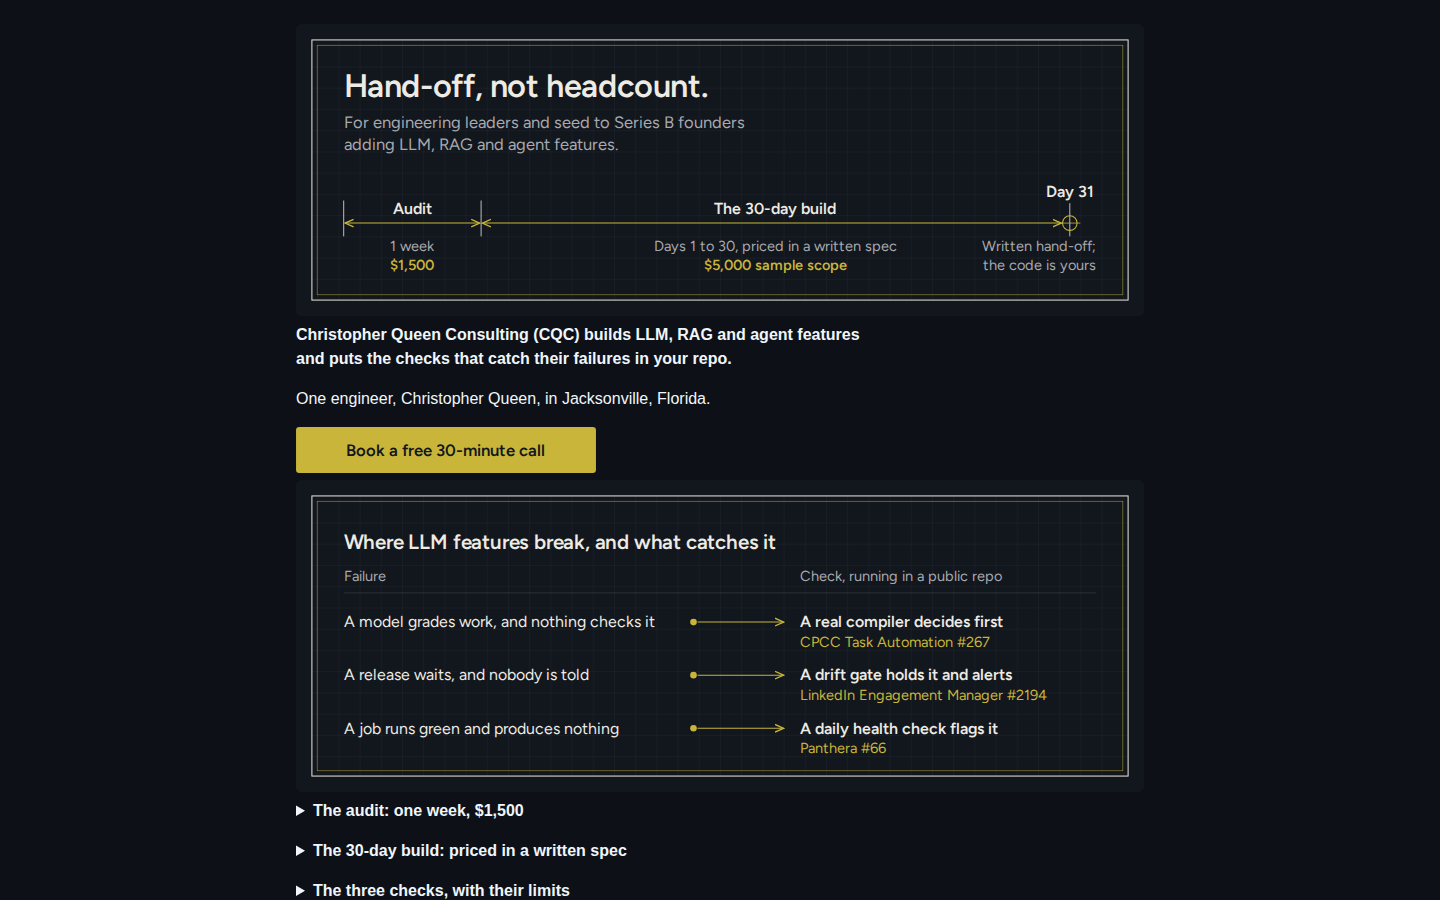
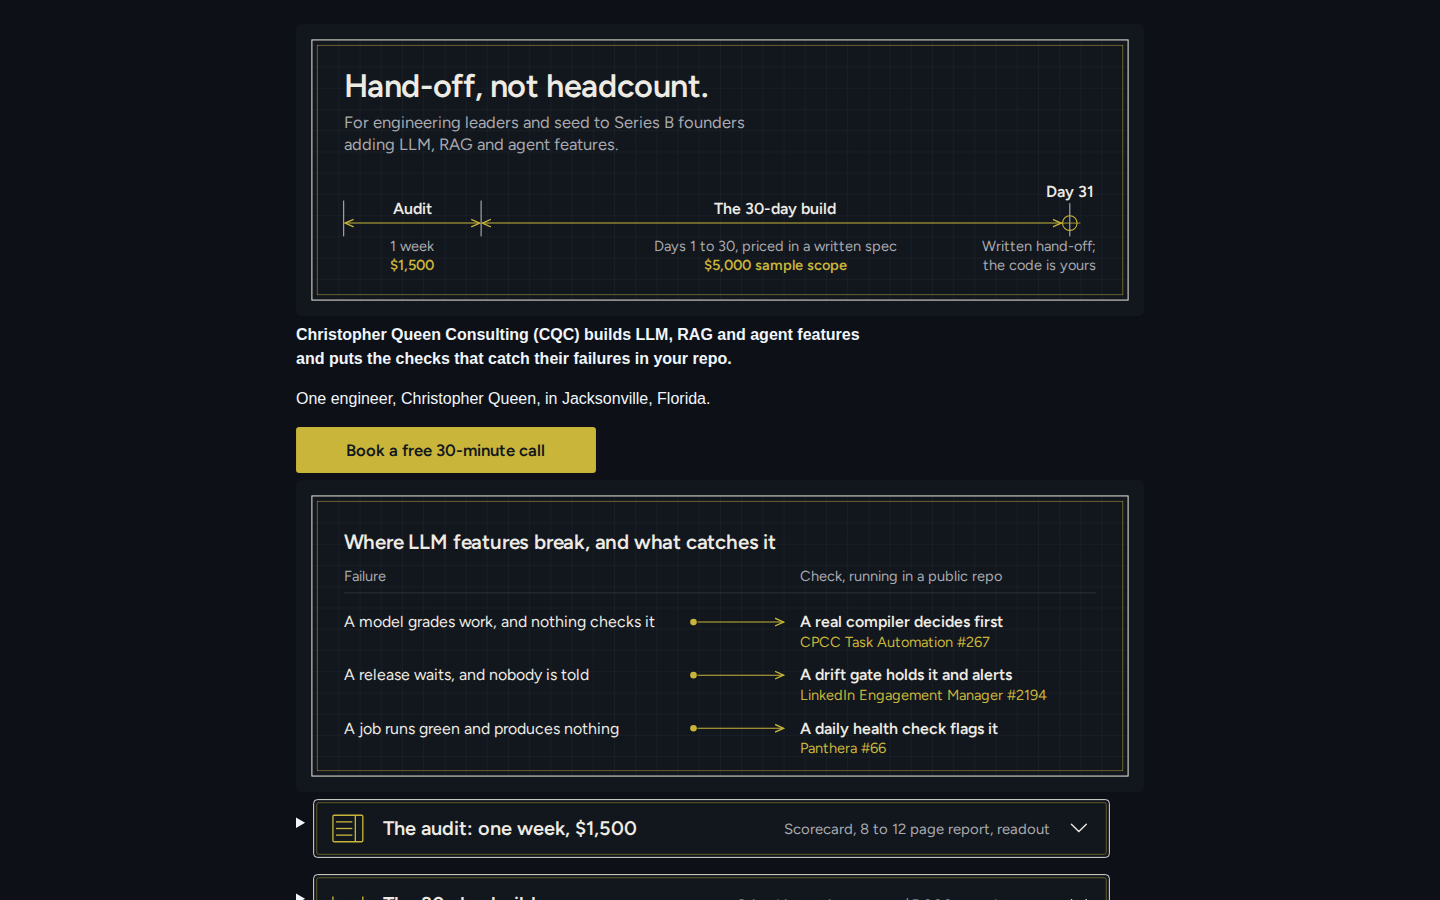
preview: captures of the branch render, render-61595ed (review only, never merge)

Changed region(s): [[0.1875, 0.8711, 0.7812, 1.0], [0.1875, 0.9956, 0.2188, 1.0]]

diff --git a/review-shots/index.html b/review-shots/index.html
@@ -1237,32 +1237,37 @@ body { margin: 0; background: #ffffff; }
 @media (max-width: 767px) { .markdown-body { padding: 16px; } }
 </style></head><body><article class="markdown-body"><a href="https://christopherqueenconsulting.com/?utm_source=github&amp;utm_medium=org_profile" rel="nofollow">
 <themed-picture data-catalyst-inline="true"><picture>
-  <source media="(max-width: 760px) and (prefers-color-scheme: dark)" srcset="https://raw.githubusercontent.com/christopherqueenconsulting/.github/feat/org-profile-v2-compact/profile/assets/hero-phone-dark.svg">
-  <source media="(max-width: 760px)" srcset="https://raw.githubusercontent.com/christopherqueenconsulting/.github/feat/org-profile-v2-compact/profile/assets/hero-phone-light.svg">
-  <source media="(prefers-reduced-motion: reduce) and (prefers-color-scheme: dark)" srcset="https://raw.githubusercontent.com/christopherqueenconsulting/.github/feat/org-profile-v2-compact/profile/assets/hero-dark-static.svg">
-  <source media="(prefers-reduced-motion: reduce)" srcset="https://raw.githubusercontent.com/christopherqueenconsulting/.github/feat/org-profile-v2-compact/profile/assets/hero-light-static.svg">
-  <source media="(prefers-color-scheme: dark)" srcset="https://raw.githubusercontent.com/christopherqueenconsulting/.github/feat/org-profile-v2-compact/profile/assets/hero-dark.svg">
-  <img alt="Christopher Queen Consulting home page. Hand-off, not headcount. For engineering leaders and seed to Series B founders adding LLM, RAG and agent features. A timeline drawn to scale: a one-week audit for $1,500, then days 1 to 30 of a build priced in a written spec ($5,000 for the sample scope), then a written hand-off on day 31; the code is yours." src="https://raw.githubusercontent.com/christopherqueenconsulting/.github/feat/org-profile-v2-compact/profile/assets/hero-light.svg" width="100%">
+  <source media="(max-width: 760px) and (prefers-color-scheme: dark)" srcset="https://raw.githubusercontent.com/christopherqueenconsulting/.github/feat/org-profile-tabs/profile/assets/hero-phone-dark.svg">
+  <source media="(max-width: 760px)" srcset="https://raw.githubusercontent.com/christopherqueenconsulting/.github/feat/org-profile-tabs/profile/assets/hero-phone-light.svg">
+  <source media="(prefers-reduced-motion: reduce) and (prefers-color-scheme: dark)" srcset="https://raw.githubusercontent.com/christopherqueenconsulting/.github/feat/org-profile-tabs/profile/assets/hero-dark-static.svg">
+  <source media="(prefers-reduced-motion: reduce)" srcset="https://raw.githubusercontent.com/christopherqueenconsulting/.github/feat/org-profile-tabs/profile/assets/hero-light-static.svg">
+  <source media="(prefers-color-scheme: dark)" srcset="https://raw.githubusercontent.com/christopherqueenconsulting/.github/feat/org-profile-tabs/profile/assets/hero-dark.svg">
+  <img alt="Christopher Queen Consulting home page. Hand-off, not headcount. For engineering leaders and seed to Series B founders adding LLM, RAG and agent features. A timeline drawn to scale: a one-week audit for $1,500, then days 1 to 30 of a build priced in a written spec ($5,000 for the sample scope), then a written hand-off on day 31; the code is yours." src="https://raw.githubusercontent.com/christopherqueenconsulting/.github/feat/org-profile-tabs/profile/assets/hero-light.svg" width="100%">
 </picture></themed-picture>
 </a>
 <p dir="auto"><strong>Christopher Queen Consulting (CQC) builds LLM, RAG and agent features<br>and puts the checks that catch their failures in your repo.</strong></p>
 <p dir="auto">One engineer, Christopher Queen, in Jacksonville, Florida.</p>
 <a href="https://christopherqueenconsulting.com/schedule/?utm_source=github&amp;utm_medium=org_profile" rel="nofollow">
 <themed-picture data-catalyst-inline="true"><picture>
-  <source media="(prefers-color-scheme: dark)" srcset="https://raw.githubusercontent.com/christopherqueenconsulting/.github/feat/org-profile-v2-compact/profile/assets/cta-dark.svg">
-  <img alt="Book a free 30-minute call" src="https://raw.githubusercontent.com/christopherqueenconsulting/.github/feat/org-profile-v2-compact/profile/assets/cta-light.svg" width="300">
+  <source media="(prefers-color-scheme: dark)" srcset="https://raw.githubusercontent.com/christopherqueenconsulting/.github/feat/org-profile-tabs/profile/assets/cta-dark.svg">
+  <img alt="Book a free 30-minute call" src="https://raw.githubusercontent.com/christopherqueenconsulting/.github/feat/org-profile-tabs/profile/assets/cta-light.svg" width="300">
 </picture></themed-picture>
 </a>
 <a href="https://github.com/gitchrisqueen/gitchrisqueen/blob/main/docs/PROOF.md">
 <themed-picture data-catalyst-inline="true"><picture>
-  <source media="(max-width: 760px) and (prefers-color-scheme: dark)" srcset="https://raw.githubusercontent.com/christopherqueenconsulting/.github/feat/org-profile-v2-compact/profile/assets/sheet2-phone-dark.svg">
-  <source media="(max-width: 760px)" srcset="https://raw.githubusercontent.com/christopherqueenconsulting/.github/feat/org-profile-v2-compact/profile/assets/sheet2-phone-light.svg">
-  <source media="(prefers-color-scheme: dark)" srcset="https://raw.githubusercontent.com/christopherqueenconsulting/.github/feat/org-profile-v2-compact/profile/assets/sheet2-dark.svg">
-  <img alt="Where LLM features break, and what catches it. A model grades work and nothing checks it: a real compiler decides first (CPCC Task Automation #267). A release waits and nobody is told: a drift gate holds it and alerts (LinkedIn Engagement Manager #2194). A job runs green and produces nothing: a daily health check flags it (Panthera #66). Opens the project write-ups." src="https://raw.githubusercontent.com/christopherqueenconsulting/.github/feat/org-profile-v2-compact/profile/assets/sheet2-light.svg" width="100%">
+  <source media="(max-width: 760px) and (prefers-color-scheme: dark)" srcset="https://raw.githubusercontent.com/christopherqueenconsulting/.github/feat/org-profile-tabs/profile/assets/sheet2-phone-dark.svg">
+  <source media="(max-width: 760px)" srcset="https://raw.githubusercontent.com/christopherqueenconsulting/.github/feat/org-profile-tabs/profile/assets/sheet2-phone-light.svg">
+  <source media="(prefers-color-scheme: dark)" srcset="https://raw.githubusercontent.com/christopherqueenconsulting/.github/feat/org-profile-tabs/profile/assets/sheet2-dark.svg">
+  <img alt="Where LLM features break, and what catches it. A model grades work and nothing checks it: a real compiler decides first (CPCC Task Automation #267). A release waits and nobody is told: a drift gate holds it and alerts (LinkedIn Engagement Manager #2194). A job runs green and produces nothing: a daily health check flags it (Panthera #66). Opens the project write-ups." src="https://raw.githubusercontent.com/christopherqueenconsulting/.github/feat/org-profile-tabs/profile/assets/sheet2-light.svg" width="100%">
 </picture></themed-picture>
 </a>
 <details>
-<summary><b>The audit: one week, $1,500</b></summary>
+<summary><themed-picture data-catalyst-inline="true"><picture>
+  <source media="(max-width: 760px) and (prefers-color-scheme: dark)" srcset="https://raw.githubusercontent.com/christopherqueenconsulting/.github/feat/org-profile-tabs/profile/assets/tab-audit-phone-dark.svg">
+  <source media="(max-width: 760px)" srcset="https://raw.githubusercontent.com/christopherqueenconsulting/.github/feat/org-profile-tabs/profile/assets/tab-audit-phone-light.svg">
+  <source media="(prefers-color-scheme: dark)" srcset="https://raw.githubusercontent.com/christopherqueenconsulting/.github/feat/org-profile-tabs/profile/assets/tab-audit-dark.svg">
+  <img alt="The audit: one week, $1,500. Scorecard, 8 to 12 page report, readout. Select to open." src="https://raw.githubusercontent.com/christopherqueenconsulting/.github/feat/org-profile-tabs/profile/assets/tab-audit-light.svg" width="94%" align="middle">
+</picture></themed-picture></summary>
 <ul dir="auto">
 <li><strong>What it is:</strong> your LLM spend and failures, traced and graded.</li>
 <li><strong>You get:</strong> a scorecard that grades five areas A to F, an 8 to 12 page report with a costed fix list, and a readout call.</li>
@@ -1273,7 +1278,12 @@ body { margin: 0; background: #ffffff; }
 <p dir="auto"><a href="https://christopherqueenconsulting.com/ai-ops-audit/?utm_source=github&amp;utm_medium=org_profile" rel="nofollow">Read the audit page</a>.</p>
 </details>
 <details>
-<summary><b>The 30-day build: priced in a written spec</b></summary>
+<summary><themed-picture data-catalyst-inline="true"><picture>
+  <source media="(max-width: 760px) and (prefers-color-scheme: dark)" srcset="https://raw.githubusercontent.com/christopherqueenconsulting/.github/feat/org-profile-tabs/profile/assets/tab-build-phone-dark.svg">
+  <source media="(max-width: 760px)" srcset="https://raw.githubusercontent.com/christopherqueenconsulting/.github/feat/org-profile-tabs/profile/assets/tab-build-phone-light.svg">
+  <source media="(prefers-color-scheme: dark)" srcset="https://raw.githubusercontent.com/christopherqueenconsulting/.github/feat/org-profile-tabs/profile/assets/tab-build-dark.svg">
+  <img alt="The 30-day build. Priced in a written spec; $5,000 sample scope. Select to open." src="https://raw.githubusercontent.com/christopherqueenconsulting/.github/feat/org-profile-tabs/profile/assets/tab-build-light.svg" width="94%" align="middle">
+</picture></themed-picture></summary>
 <ul dir="auto">
 <li><strong>What it is:</strong> one working system, built in your repo over 30 days.</li>
 <li><strong>Price:</strong> set in a written spec before day 1. The sample scope, an agent eval harness, is $5,000.</li>
@@ -1285,14 +1295,24 @@ body { margin: 0; background: #ffffff; }
 <p dir="auto"><a href="https://build.christopherqueenconsulting.com/?utm_source=github&amp;utm_medium=org_profile" rel="nofollow">Read the build page</a>.</p>
 </details>
 <details>
-<summary><b>The three checks, with their limits</b></summary>
+<summary><themed-picture data-catalyst-inline="true"><picture>
+  <source media="(max-width: 760px) and (prefers-color-scheme: dark)" srcset="https://raw.githubusercontent.com/christopherqueenconsulting/.github/feat/org-profile-tabs/profile/assets/tab-checks-phone-dark.svg">
+  <source media="(max-width: 760px)" srcset="https://raw.githubusercontent.com/christopherqueenconsulting/.github/feat/org-profile-tabs/profile/assets/tab-checks-phone-light.svg">
+  <source media="(prefers-color-scheme: dark)" srcset="https://raw.githubusercontent.com/christopherqueenconsulting/.github/feat/org-profile-tabs/profile/assets/tab-checks-dark.svg">
+  <img alt="The three checks, with their limits. Compiler gate, drift gate, health check. Select to open." src="https://raw.githubusercontent.com/christopherqueenconsulting/.github/feat/org-profile-tabs/profile/assets/tab-checks-light.svg" width="94%" align="middle">
+</picture></themed-picture></summary>
 <p dir="auto"><strong>A model grades work, and nothing checks it.</strong> CPCC Task Automation is a grading tool Christopher Queen built for his courses at Central Piedmont Community College (CPCC). Since <a href="https://github.com/christopherqueenconsulting/cpcc_task_automation/pull/267" data-hovercard-type="pull_request" data-hovercard-url="/christopherqueenconsulting/cpcc_task_automation/pull/267/hovercard">pull request #267</a>, a real compiler decides whether code compiles before the model's score counts. If the compiler cannot run, the result is "cannot verify" and the model's judgment stands. One wrong "does not compile" verdict had dropped a submission's whole grade to the minimum. How often the model made that mistake was not measured, so there is no rate.</p>
 <p dir="auto"><strong>A release waits, and nobody is told.</strong> LinkedIn Engagement Manager (LEM) is a live web app. Since <a href="https://github.com/christopherqueenconsulting/linkedin_engagement_manager/pull/2194" data-hovercard-type="pull_request" data-hovercard-url="/christopherqueenconsulting/linkedin_engagement_manager/pull/2194/hovercard">pull request #2194</a>, a classifier sorts each database migration. Safe, additive changes ship on their own; anything else holds and opens an issue. An hourly check alerts when a release has waited more than 3 hours. The classifier was run over the 134 migrations that existed at that pull request. It would have shipped 102 and held 32, each with a named reason. It has 68 tests.</p>
 <p dir="auto"><strong>A job runs green and produces nothing.</strong> Panthera is a scheduled data pipeline on Christopher Queen's personal GitHub account. Since <a href="https://github.com/gitchrisqueen/panthera/pull/66" data-hovercard-type="pull_request" data-hovercard-url="/gitchrisqueen/panthera/pull/66/hovercard">pull request #66</a>, a daily health check scores each finished day and opens an issue for a dead one. It flags a dead day the next morning, about 26 hours later at the earliest. Its threshold was set on past data, not held out.</p>
 <p dir="auto">These are CQC's own running systems. Sources and fuller caveats: <a href="https://github.com/gitchrisqueen/gitchrisqueen/blob/main/docs/PROOF.md">the project write-ups</a>.</p>
 </details>
 <details>
-<summary><b>Code, live CI and upstream fixes</b></summary>
+<summary><themed-picture data-catalyst-inline="true"><picture>
+  <source media="(max-width: 760px) and (prefers-color-scheme: dark)" srcset="https://raw.githubusercontent.com/christopherqueenconsulting/.github/feat/org-profile-tabs/profile/assets/tab-code-phone-dark.svg">
+  <source media="(max-width: 760px)" srcset="https://raw.githubusercontent.com/christopherqueenconsulting/.github/feat/org-profile-tabs/profile/assets/tab-code-phone-light.svg">
+  <source media="(prefers-color-scheme: dark)" srcset="https://raw.githubusercontent.com/christopherqueenconsulting/.github/feat/org-profile-tabs/profile/assets/tab-code-dark.svg">
+  <img alt="Code, live CI and upstream fixes. 4 repos, 6 live checks, 6 merged fixes. Select to open." src="https://raw.githubusercontent.com/christopherqueenconsulting/.github/feat/org-profile-tabs/profile/assets/tab-code-light.svg" width="94%" align="middle">
+</picture></themed-picture></summary>
 <ul dir="auto">
 <li><strong><a href="https://github.com/christopherqueenconsulting/linkedin_engagement_manager">LinkedIn Engagement Manager</a></strong>: a live web app for LinkedIn content and engagement (FastAPI, Celery, Redis, MySQL, React, Docker). Its write-up lists its limits: deployed and CI-gated, no revenue.</li>
 <li><strong><a href="https://github.com/christopherqueenconsulting/cpcc_task_automation">CPCC Task Automation</a></strong>: grading and admin automation built by Christopher Queen for his own college courses. Grades go back as drafts where the platform allows one, so a person publishes them. Its write-up says he is its only user.</li>
